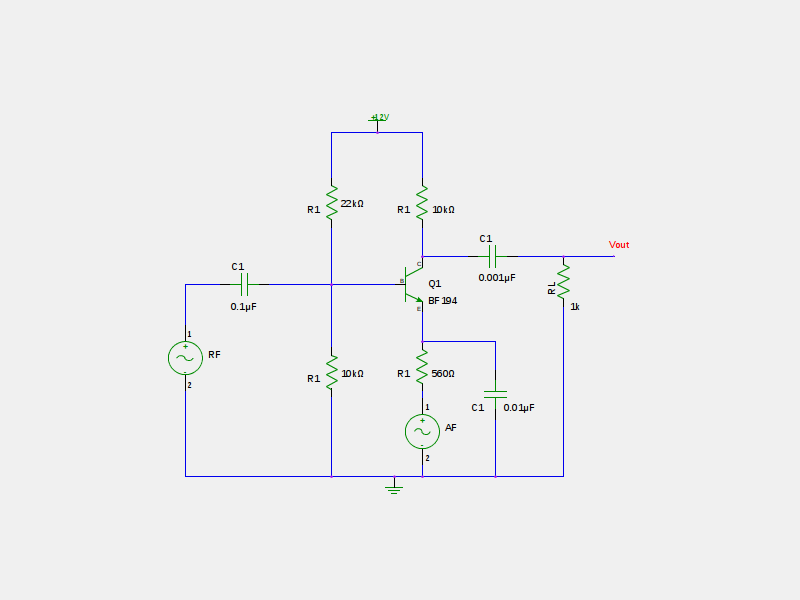
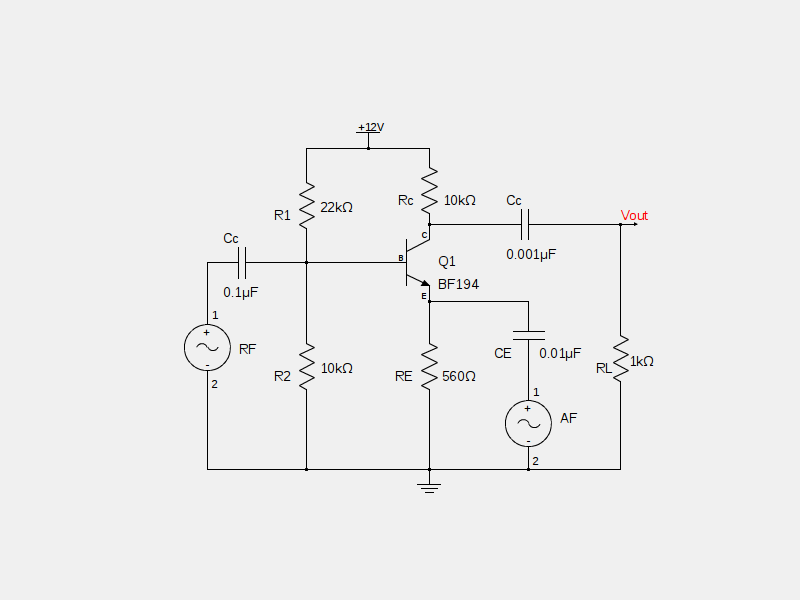
[ac] Added circuit diagrams for Demodulation with AGC
Finetuning contents of AM demodulation

diff --git a/analogcommunicationcircuits/chapters/amdemodAGC.tex b/analogcommunicationcircuits/chapters/amdemodAGC.tex
@@ -2,11 +2,11 @@
 \section*{Aim}
 To demodulate the message content from AM signal. Also detect the automatic gain control signal from the received AM signal.
 \section*{Theory}
-\paragraph{Simple AGC:}
+
 
 A simple AM demodulator is a diode envelope detector as discussed in  Chapter \ref{AMDetection}. The demodulated output voltage is having a modulating signal and a dc offset voltage. The dc offset voltage is proportional to the strength of the modulated signal received by the receiver in a transmission reception system, which inturn is proportional to the strength(amplitude) of the carrier.
 
-From the detected output this dc voltage is separated by a LPF to get the required AGC feedback voltage. In superheterodyne receivers this AGC voltage is fed back to the IF stage of the receiver to increase or decrease the gain of the amplifier in such a way to get a constant output from the receiver.
+From the detected output this dc voltage is separated by a LPF to get the required AGC feedback voltage. In superheterodyne receivers this AGC voltage is fed back to the IF amplifier stages of the receiver to increase or decrease the gain of the amplifier in such a way to get a constant output from the receiver.
 
 \paragraph{Delayed AGC:}In simple AGC circuits even if the signal level received is low, the AGC circuit operates and the overall gain of the receiver is getting reduced. To avoid this situation, a delayed AGC circuit is used. In this case AGC bias voltage is not applied to amplifiers, until signal strength has reached a predetermined level after which AGC bias is applied like simple AGC.
 
